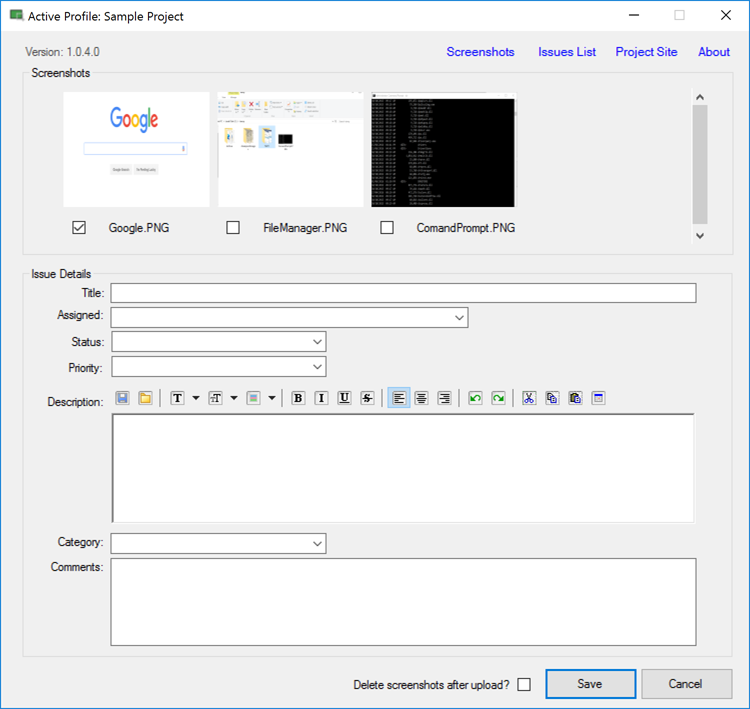
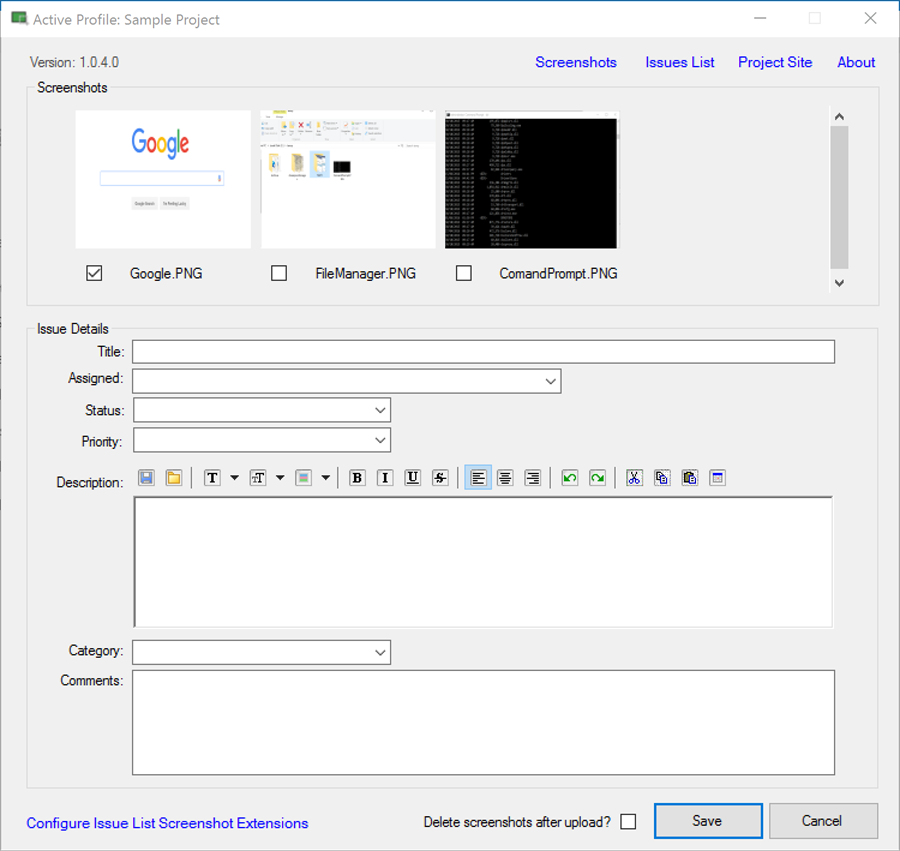
Readme Modifications

diff --git a/README.md b/README.md
@@ -3,5 +3,16 @@ A Windows application for quickly creating issues, in a standard SharePoint issu
 
 ![MainScreen - New.png](Screenshots/MainScreen - New.png)
 
+## Key Features
+- Multiple profiles supporting any number of Issue List/Screenshot folder combinations
+- Upload multiple screenshots at any time (and optionally delete them after upload) 
+- Support for all standard Issue fields (and their drop down values)
+- Accessible from the system tray (optionally open automatically on screenshot save)
+- Automatically updates to the latest version
+- Shortcuts to the active Issues List, Site and Screenshot folder. 
+- Enlarged, resizeable previews of the screenshots available by clicking
+- Optionally install extensions to the standard SharePoint Issue Display Form that adds previews to the screenshots
+
+
 
 
